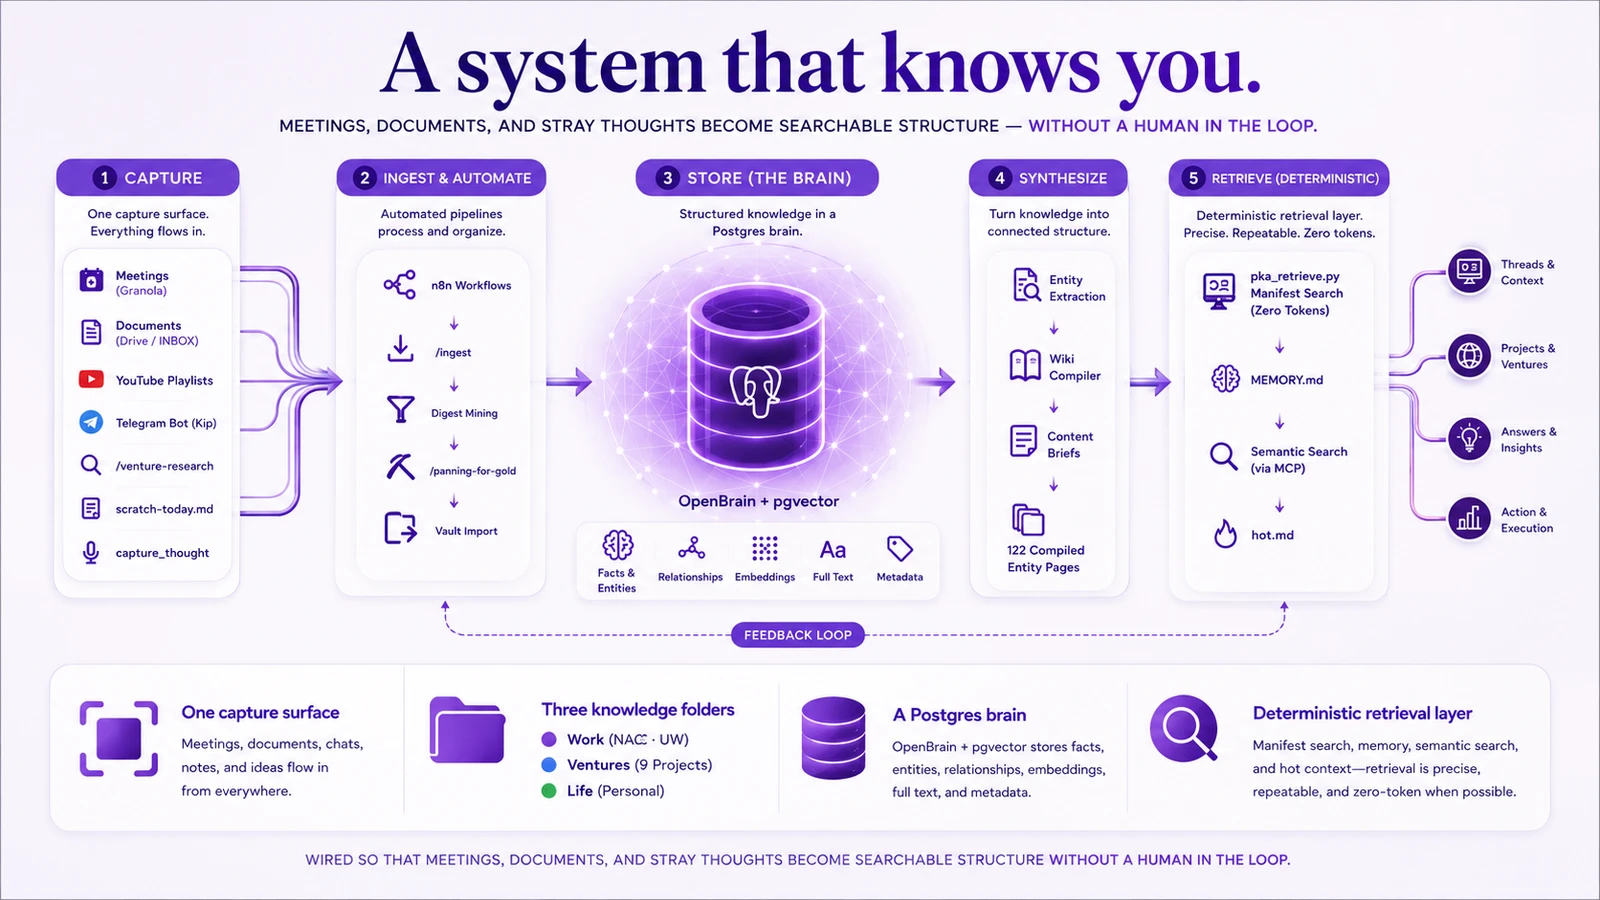
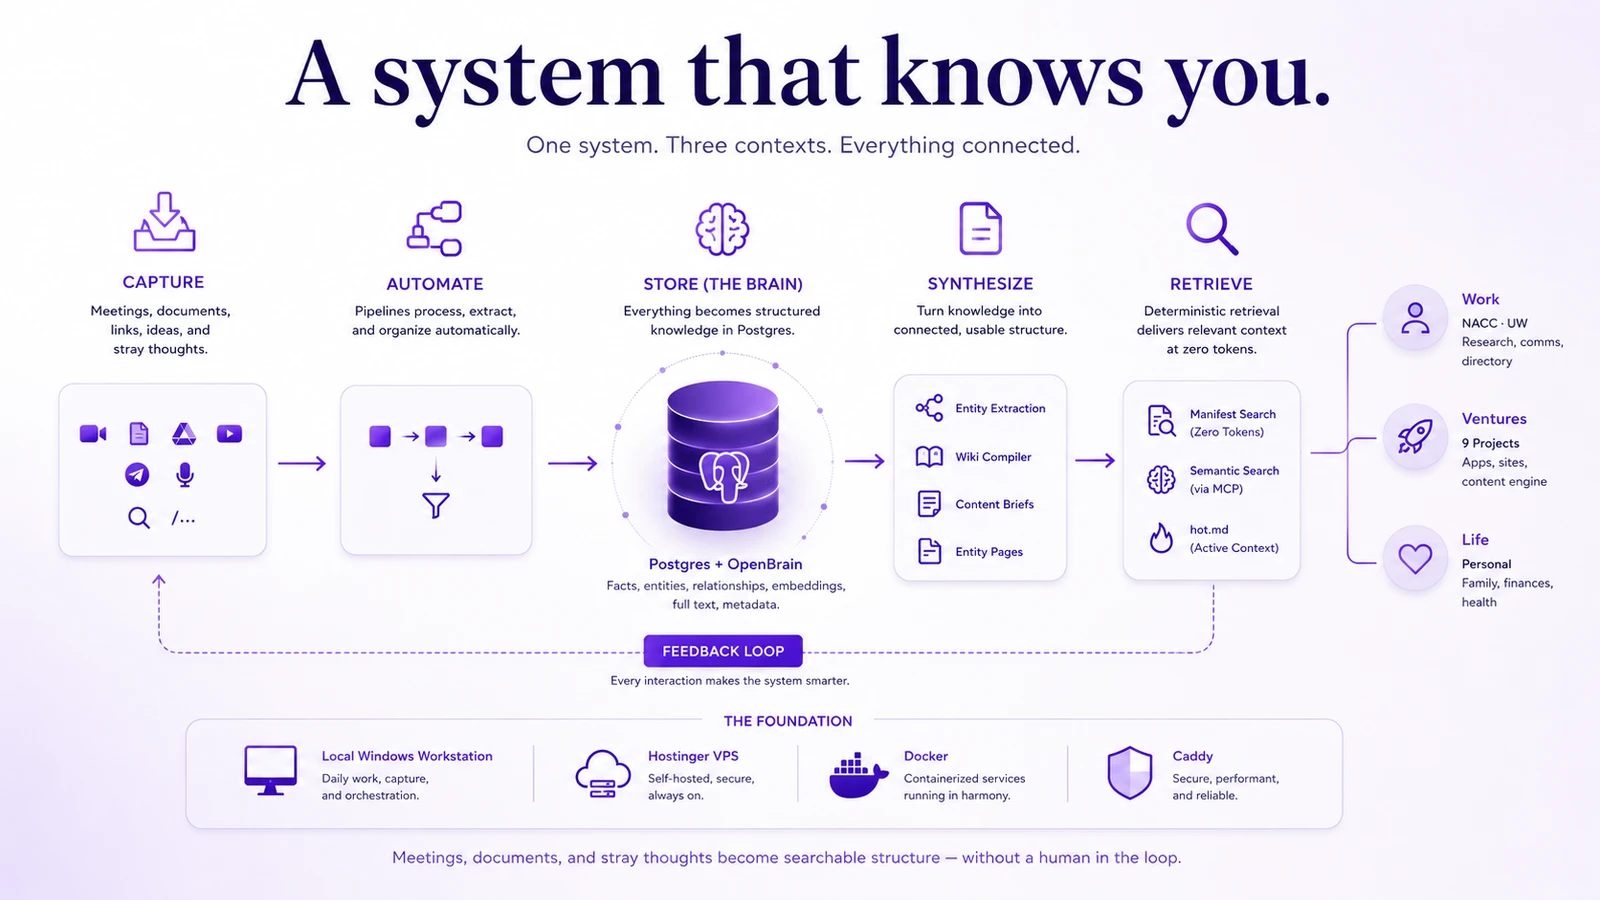
Simplify featured-post hero image, suppress it on the article page
- Swap pka-system-pipeline.webp for a redesigned, simpler version (fewer
  panels, larger type) — legible at card thumbnail size, unlike the first
  version's dense 5-panel diagram
- Add showHeroInArticle opt-out (schema + post.astro): the-system-that-
  knows-you.md's article body already carries its own architecture diagram,
  so the .prj-hero at the top of the article is now suppressed for this
  post specifically. Homepage Writing card and /posts featured card are
  unaffected — both still read heroImage directly.

diff --git a/src/content/config.js b/src/content/config.js
@@ -8,6 +8,10 @@ const postCollection = defineCollection({
 		dateFormatted: z.string(),
 		tags: z.array(z.string()).optional(),
 		heroImage: z.string().optional(),
+		// Opt-out for posts whose article body already carries an equivalent image
+		// (e.g. an in-body architecture diagram) — heroImage still drives the /posts
+		// and homepage cards, just not layouts/post.astro's .prj-hero.
+		showHeroInArticle: z.boolean().optional(),
 	}),
 });
 

diff --git a/src/content/post/the-system-that-knows-you.md b/src/content/post/the-system-that-knows-you.md
@@ -5,6 +5,7 @@ description: How a system built to replace a team of contractors turned into som
 dateFormatted: Aug 3, 2026
 tags: ["Claude Code", "AI Agents", "Obsidian", "n8n", "Postgres", "Self-hosted"]
 heroImage: /assets/images/posts/pka-system-pipeline.webp
+showHeroInArticle: false
 ---
 
 <figure>
